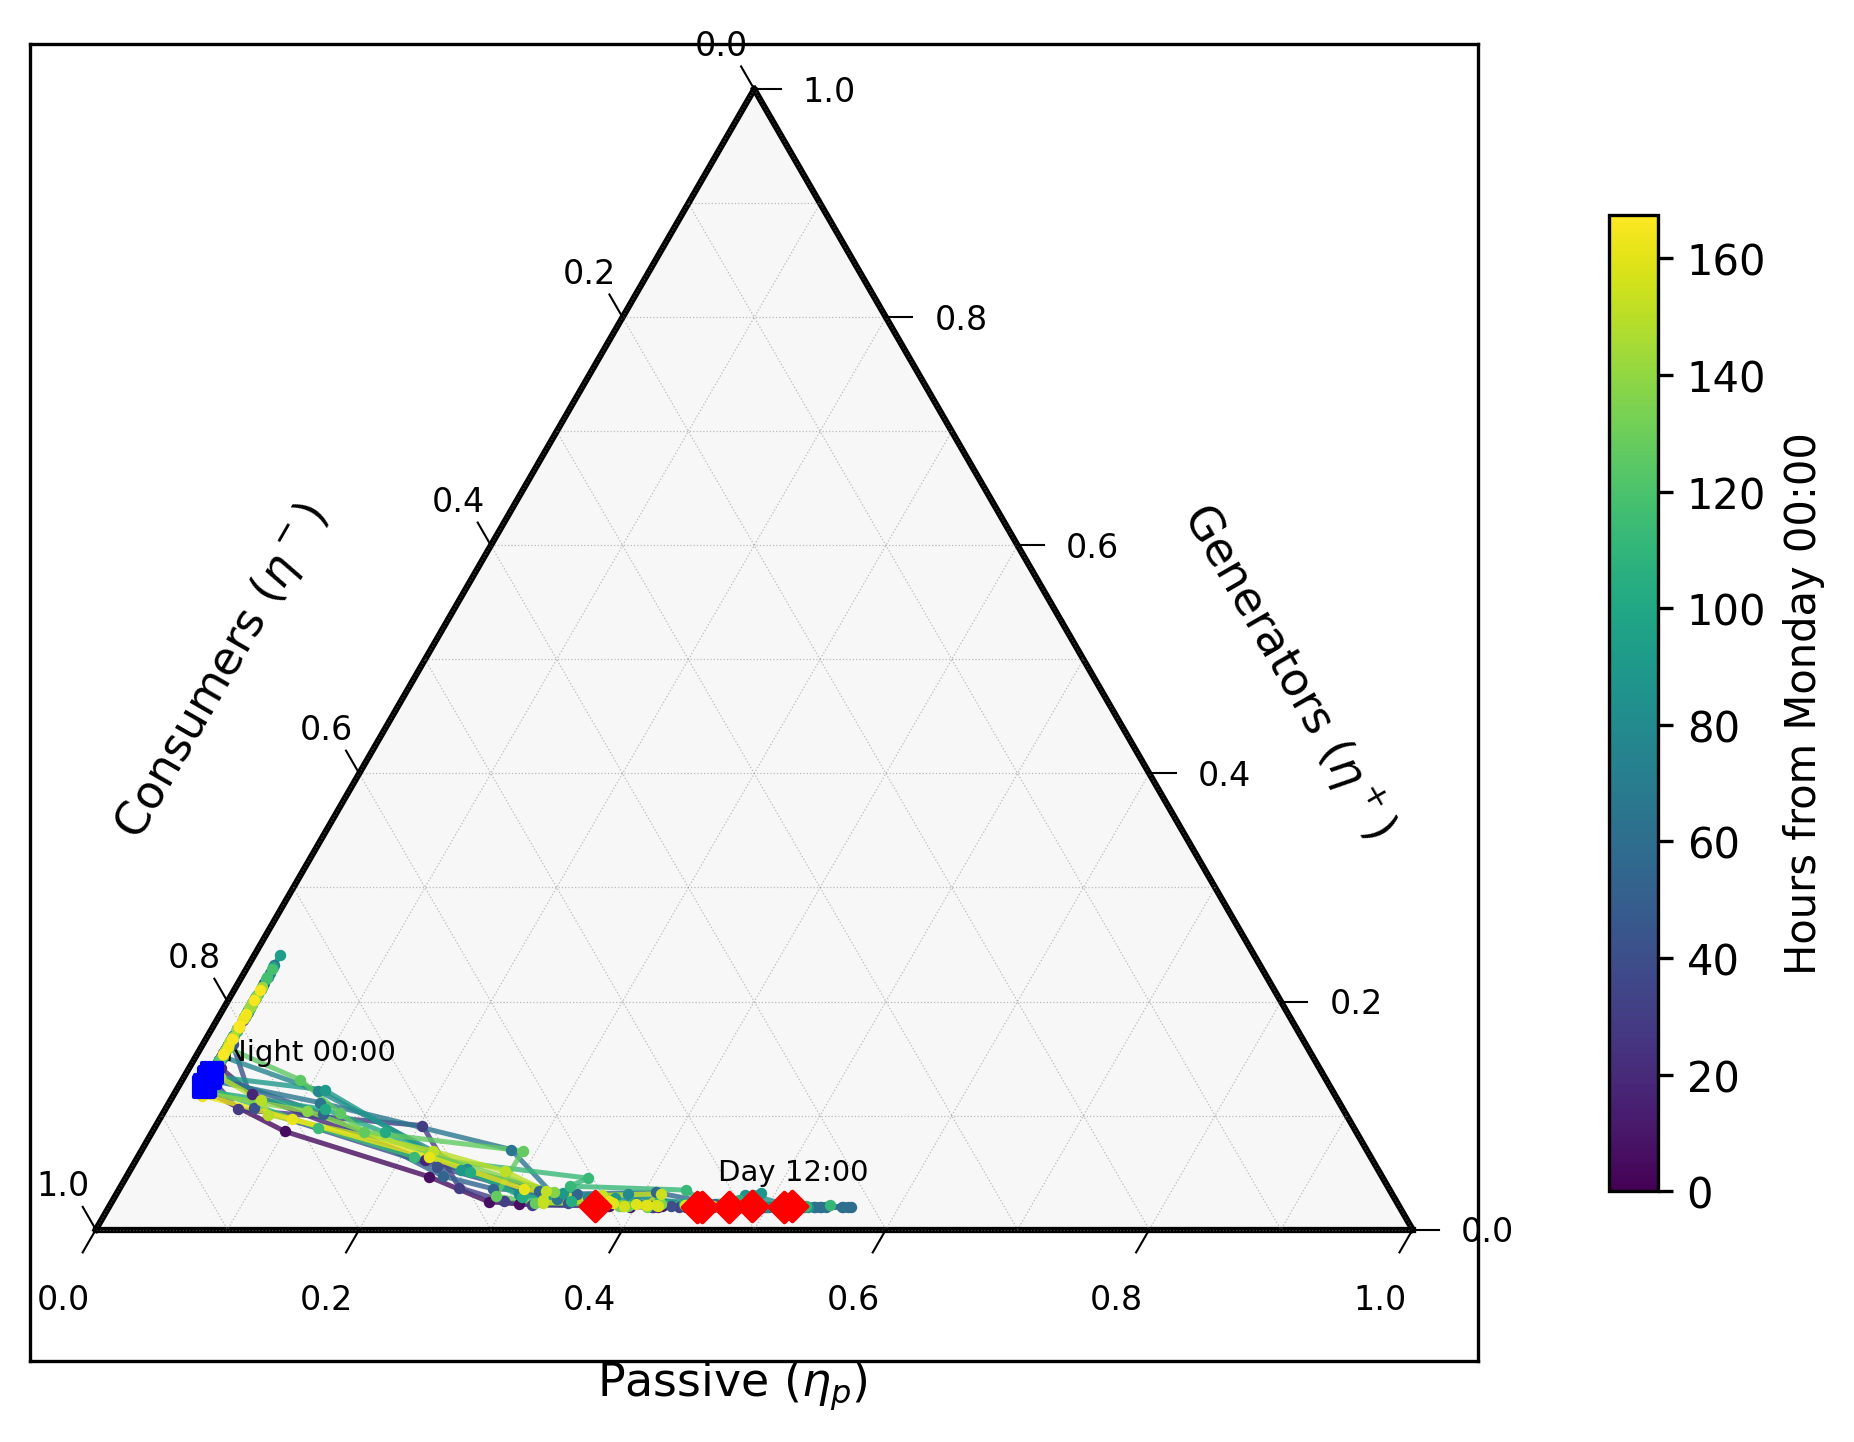
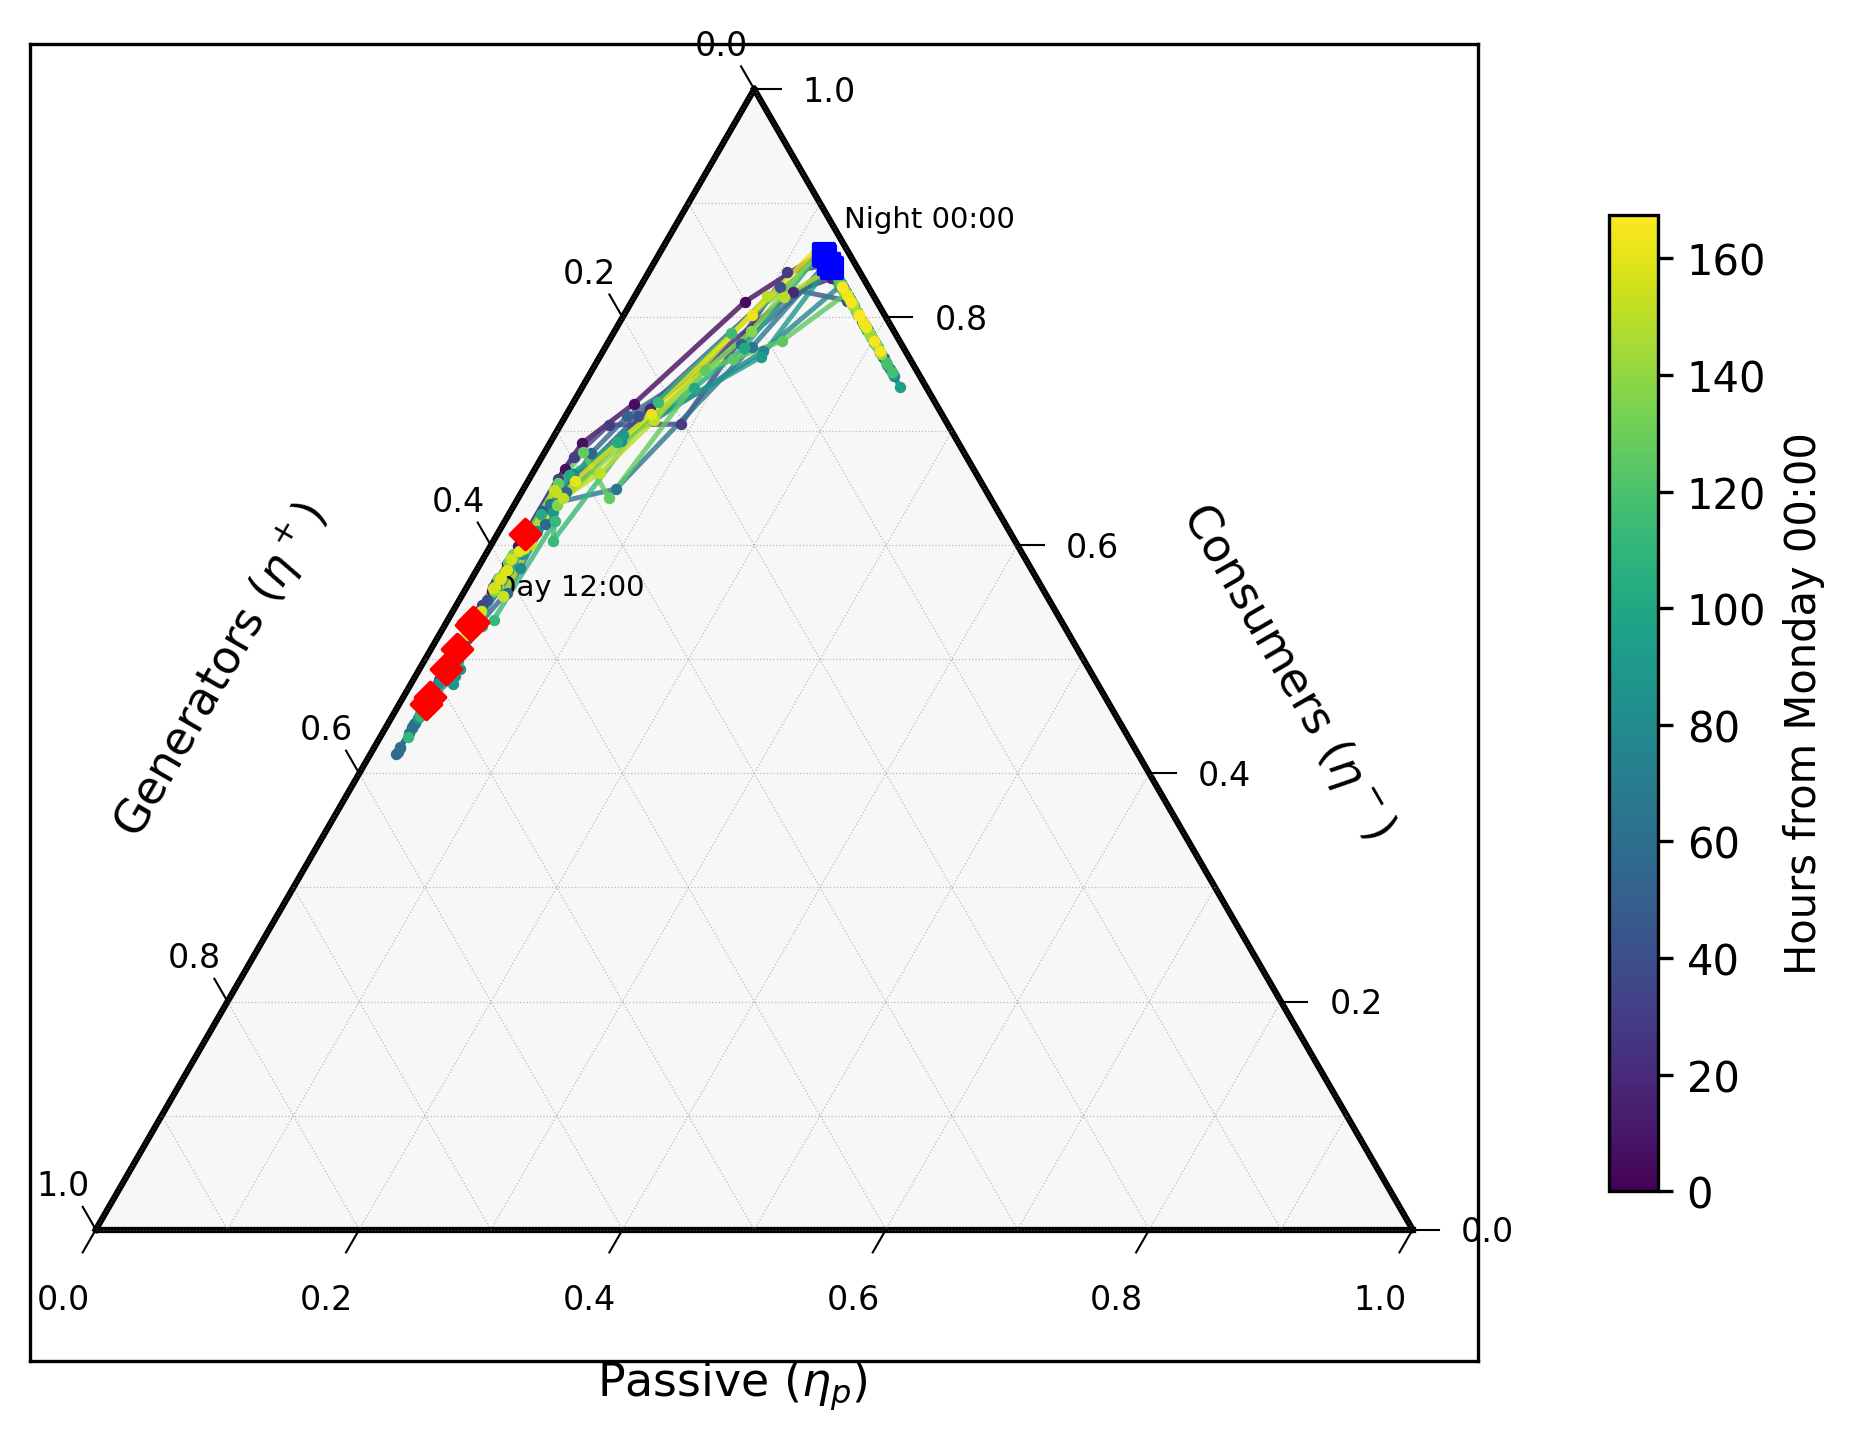
style: update figure colors and improve axis labels for better visualization

diff --git a/sq4_data/plot_sq4.py b/sq4_data/plot_sq4.py
@@ -28,19 +28,18 @@ SCRIPT_DIR = os.path.dirname(os.path.abspath(__file__))
 RESULTS_DIR = os.path.join(SCRIPT_DIR, "results")
 FIGURES_DIR = os.path.join(SCRIPT_DIR, "figures")
 
-# Paul Tol colorblind-safe palette
 STRATEGY_COLORS = {
     "baseline":   "#888888",
-    "random":     "#4477AA",
-    "max_power":  "#228833",
-    "score":      "#EE6677",
-    "pcc_direct": "#AA3377",
+    "random":     "#1f77b4",   # tab blue
+    "max_power":  "#ff7f0e",   # tab orange
+    "score":      "#d62728",   # tab red
+    "pcc_direct": "#2ca02c",   # tab green
 }
 M_COLORS = {
     "m=0_pcc_direct":  "#888888",
-    "m=4_pcc_direct":  "#AA3377",
-    "m=8_pcc_direct":  "#BBBBDD",
-    "m=4_random":      "#4477AA",
+    "m=4_pcc_direct":  "#2ca02c",   # tab green
+    "m=8_pcc_direct":  "#8c564b",   # tab brown
+    "m=4_random":      "#1f77b4",   # tab blue
 }
 
 
@@ -66,11 +65,11 @@ def plot_4a1_kc_vs_q(summary_path: str, out_dir: str):
     fig, ax = plt.subplots()
     ax.errorbar(
         df["q"], df["kc_noon_mean"], yerr=df["kc_noon_std"],
-        fmt="o-", capsize=4, color="#AA3377", label="Noon (12:00)",
+        fmt="o-", capsize=4, color="#ff7f0e", label="Noon (12:00)",
     )
     ax.errorbar(
         df["q"], df["kc_dawn_mean"], yerr=df["kc_dawn_std"],
-        fmt="s--", capsize=4, color="#4477AA", label="Dawn (06:00)",
+        fmt="s--", capsize=4, color="#1f77b4", label="Dawn (06:00)",
     )
     ax.set_xlabel("Rewiring probability $q$")
     ax.set_ylabel(r"$\bar{\kappa}_c / P_{\max}$")
@@ -86,7 +85,7 @@ def plot_4a2_ratio_vs_q(summary_path: str, out_dir: str):
     """Fig 4a2: peak/valley ratio vs q."""
     df = pd.read_csv(summary_path)
     fig, ax = plt.subplots()
-    ax.plot(df["q"], df["peak_valley_ratio"], "o-", color="#EE6677")
+    ax.plot(df["q"], df["peak_valley_ratio"], "o-", color="#d62728")
     ax.set_xlabel("Rewiring probability $q$")
     ax.set_ylabel("Peak / Valley ratio")
     ax.grid(True, alpha=0.3)
@@ -157,11 +156,11 @@ def plot_4b3_kc_vs_m(summary_path: str, out_dir: str):
     fig, ax = plt.subplots()
     ax.errorbar(
         df["m"], df["kc_noon_mean"], yerr=df["kc_noon_std"],
-        fmt="o-", capsize=4, color="#AA3377", label="Noon (12:00)",
+        fmt="o-", capsize=4, color="#ff7f0e", label="Noon (12:00)",
     )
     ax.errorbar(
         df["m"], df["kc_dawn_mean"], yerr=df["kc_dawn_std"],
-        fmt="s--", capsize=4, color="#4477AA", label="Dawn (06:00)",
+        fmt="s--", capsize=4, color="#1f77b4", label="Dawn (06:00)",
     )
     ax.set_xlabel("Number of added edges $m$")
     ax.set_ylabel(r"$\bar{\kappa}_c / P_{\max}$")
@@ -197,12 +196,12 @@ def plot_4b3_combined(results_dir: str, out_dir: str):
     # Analytic lower bound: 20.85 / (4 + m)
     m_cont = np.linspace(0, 20, 200)
     lb = 20.85 / (4 + m_cont)
-    ax.plot(m_cont, lb, "--", color="#EE6677", label=r"Lower bound $20.85/(4+m)$")
-    ax.fill_between(m_cont, 0, lb, color="#EE6677", alpha=0.08, label="Guaranteed unstable")
+    ax.plot(m_cont, lb, "--", color="#d62728", label=r"Lower bound $20.85/(4+m)$")
+    ax.fill_between(m_cont, 0, lb, color="#d62728", alpha=0.08, label="Guaranteed unstable")
 
     # Empirical fit: 25.7 / (4 + m)
     emp = 25.7 / (4 + m_cont)
-    ax.plot(m_cont, emp, "--", color="#4477AA", label=r"Empirical fit $25.7/(4+m)$")
+    ax.plot(m_cont, emp, "--", color="#1f77b4", label=r"Empirical fit $25.7/(4+m)$")
 
     ax.set_xlabel("Number of added edges $m$")
     ax.set_ylabel(r"$\bar{\kappa}_c / P_{\max}$")
@@ -219,7 +218,7 @@ def plot_4b4_ratio_vs_m(summary_path: str, out_dir: str):
     """Fig 4b4: peak/valley ratio vs m."""
     df = pd.read_csv(summary_path)
     fig, ax = plt.subplots()
-    ax.plot(df["m"], df["peak_valley_ratio"], "o-", color="#EE6677")
+    ax.plot(df["m"], df["peak_valley_ratio"], "o-", color="#d62728")
     ax.set_xlabel("Number of added edges $m$")
     ax.set_ylabel("Peak / Valley ratio")
     strategy = df["strategy"].iloc[0] if "strategy" in df.columns else "best"

diff --git a/sq3_data/plot_sq3.py b/sq3_data/plot_sq3.py
@@ -23,12 +23,11 @@ RESULTS_DIR = os.path.join(SCRIPT_DIR, "results")
 FIGURES_DIR = os.path.join(SCRIPT_DIR, "figures")
 os.makedirs(FIGURES_DIR, exist_ok=True)
 
-# Paul Tol colorblind-safe palette
 M_COLORS = {
-    "m=0_pcc_direct":  "#888888",
-    "m=4_pcc_direct":  "#AA3377",
-    "m=8_pcc_direct":  "#BBBBDD",
-    "m=4_random":      "#4477AA",
+    "m=0_pcc_direct":  "#888888",   # gray (baseline)
+    "m=4_pcc_direct":  "#2ca02c",   # tab green
+    "m=8_pcc_direct":  "#8c564b",   # tab brown
+    "m=4_random":      "#1f77b4",   # tab blue
 }
 LABELS = {
     "m=0_pcc_direct": "m=0 (baseline)",
@@ -154,9 +153,9 @@ def plot_sq3_2():
             width = 0.35
 
             ax.bar(x - width/2, pcc_means, width, label="PCC edges",
-                   color="#EE6677", alpha=0.8)
+                   color="#d62728", alpha=0.8)
             ax.bar(x + width/2, nonpcc_means, width, label="Non-PCC edges",
-                   color="#4477AA", alpha=0.8)
+                   color="#1f77b4", alpha=0.8)
 
             ax.set_xticks(x)
             ax.set_xticklabels(configs, rotation=45, ha='right', fontsize=8)
@@ -201,11 +200,11 @@ def plot_sq3_3():
     ax = axes[0]
     df_optd = pd.read_csv(optd_sweep)
     agg = df_optd.groupby("alpha_over_alpha_star")["S"].agg(["mean", "std"]).reset_index()
-    ax.plot(agg["alpha_over_alpha_star"], agg["mean"], '-', color="#228833", linewidth=2,
+    ax.plot(agg["alpha_over_alpha_star"], agg["mean"], '-', color="#2ca02c", linewidth=2,
             label="WS(50,4,0.1) — no PCC")
     ax.fill_between(agg["alpha_over_alpha_star"],
                      agg["mean"] - agg["std"], agg["mean"] + agg["std"],
-                     alpha=0.2, color="#228833")
+                     alpha=0.2, color="#2ca02c")
 
     # Overlay PCC m=0 at noon if available
     if has_pcc:
@@ -213,12 +212,12 @@ def plot_sq3_3():
         df_noon = df_pcc[(df_pcc["timestep"] == "12:00") & (df_pcc["m"] == 0)]
         if not df_noon.empty:
             agg_pcc = df_noon.groupby("alpha_over_alpha_star")["S"].agg(["mean", "std"]).reset_index()
-            ax.plot(agg_pcc["alpha_over_alpha_star"], agg_pcc["mean"], '-', color="#EE6677",
+            ax.plot(agg_pcc["alpha_over_alpha_star"], agg_pcc["mean"], '-', color="#d62728",
                     linewidth=2, label="PCC network m=0 (noon)")
             ax.fill_between(agg_pcc["alpha_over_alpha_star"],
                              agg_pcc["mean"] - agg_pcc["std"],
                              agg_pcc["mean"] + agg_pcc["std"],
-                             alpha=0.2, color="#EE6677")
+                             alpha=0.2, color="#d62728")
 
     ax.axhline(0.5, color='gray', linestyle='--', alpha=0.5)
     ax.set_xlabel(r"$\alpha / \alpha^*$", fontsize=11)
@@ -234,7 +233,7 @@ def plot_sq3_3():
     rhos = df_rho["rho"].dropna().values
 
     if len(rhos) > 0:
-        ax.hist(rhos, bins=20, color="#228833", alpha=0.7, edgecolor="black")
+        ax.hist(rhos, bins=20, color="#2ca02c", alpha=0.7, edgecolor="black")
         ax.axvline(np.mean(rhos), color='red', linestyle='--',
                    label=f"mean={np.mean(rhos):.3f}")
         ax.axvline(np.median(rhos), color='blue', linestyle='--',
@@ -251,7 +250,7 @@ def plot_sq3_3():
     n_total = len(df_rho)
     ax.bar(["Converged", "Not converged"],
            [n_conv, n_total - n_conv],
-           color=["#228833", "#EE6677"], alpha=0.8, edgecolor="black")
+           color=["#2ca02c", "#d62728"], alpha=0.8, edgecolor="black")
     ax.set_ylabel("Count", fontsize=11)
     ax.set_title(f"(c) Bisection Convergence ({100*n_conv/n_total:.0f}%)", fontsize=12)
     ax.grid(True, alpha=0.3, axis='y')

diff --git a/sq2_data/plot_results.py b/sq2_data/plot_results.py
@@ -20,13 +20,12 @@ import ternary
 SCRIPT_DIR = os.path.dirname(os.path.abspath(__file__))
 DPI = 300
 
-# Paul Tol colorblind-safe palette
 STRATEGY_COLORS = {
     "baseline":   "#888888",
-    "random":     "#4477AA",
-    "max_power":  "#228833",
-    "score":      "#EE6677",
-    "pcc_direct": "#AA3377",
+    "random":     "#1f77b4",   # tab blue
+    "max_power":  "#ff7f0e",   # tab orange
+    "score":      "#d62728",   # tab red
+    "pcc_direct": "#2ca02c",   # tab green
 }
 
 
@@ -70,7 +69,7 @@ def plot_trajectory(results_dir: str, output_dir: str, season: str):
 
     # Scale to ternary coordinates (python-ternary uses scale parameter)
     scale = 1.0
-    points = list(zip(eta_plus, eta_minus, eta_p))
+    points = list(zip(eta_minus, eta_p, eta_plus))
 
     fig, tax = ternary.figure(scale=scale)
     fig.set_size_inches(7, 6)
@@ -119,8 +118,8 @@ def plot_trajectory(results_dir: str, output_dir: str, season: str):
                 )
 
     # Labels
-    tax.left_axis_label("Consumers ($\\eta^-$)", fontsize=11, offset=0.16)
-    tax.right_axis_label("Generators ($\\eta^+$)", fontsize=11, offset=0.16)
+    tax.left_axis_label("Generators ($\\eta^+$)", fontsize=11, offset=0.16)
+    tax.right_axis_label("Consumers ($\\eta^-$)", fontsize=11, offset=0.16)
     tax.bottom_axis_label("Passive ($\\eta_p$)", fontsize=11, offset=0.06)
 
     tax.ticks(axis="lbr", linewidth=0.5, multiple=0.2, fontsize=8, offset=0.02,
@@ -165,13 +164,13 @@ def plot_kappa_timeseries(results_dir: str, output_dir: str, season: str):
 
     fig, ax = plt.subplots(figsize=(12, 3.5))
 
-    ax.plot(x, kc_mean, "-", color="#4477AA", linewidth=1.5, label="$\\bar{\\kappa}_c / P_{\\max}$")
+    ax.plot(x, kc_mean, "-", color="#1f77b4", linewidth=1.5, label="$\\bar{\\kappa}_c / P_{\\max}$")
     ax.fill_between(
         x,
         np.maximum(kc_mean - kc_std, 0),
         kc_mean + kc_std,
         alpha=0.25,
-        color="#4477AA",
+        color="#1f77b4",
         label="$\\pm 1$ SD",
     )
 

diff --git a/direction3_nonuniform/plot_results.py b/direction3_nonuniform/plot_results.py
@@ -43,12 +43,11 @@ def plot_2a(input_csv: str, output_png: str):
     ax.plot(x, y_gen, color="#1f77b4", linewidth=2.0, label="2A-gen")
     ax.fill_between(x, y_gen - s_gen, y_gen + s_gen, color="#1f77b4", alpha=0.20)
 
-    ax.plot(x, y_con, color="#d62728", linewidth=2.0, label="2A-con")
-    ax.fill_between(x, y_con - s_con, y_con + s_con, color="#d62728", alpha=0.20)
+    ax.plot(x, y_con, color="#ff7f0e", linewidth=2.0, label="2A-con")
+    ax.fill_between(x, y_con - s_con, y_con + s_con, color="#ff7f0e", alpha=0.20)
 
     ax.set_xlabel("sigma / P_bar")
     ax.set_ylabel("kappa_c / P_max")
-    ax.set_title("Effect of Power Heterogeneity on Critical Coupling")
     ax.grid(alpha=0.25)
     ax.legend(frameon=False)
 
@@ -67,12 +66,11 @@ def plot_2c(input_csv: str, output_png: str):
     s = data["kappa_c_std"][order]
 
     fig, ax = plt.subplots(figsize=(7.0, 4.6), dpi=200)
-    ax.plot(x, y, color="#2ca02c", linewidth=2.0, label="2C")
-    ax.fill_between(x, y - s, y + s, color="#2ca02c", alpha=0.20)
+    ax.plot(x, y, color="#d62728", linewidth=2.0, label="2C")
+    ax.fill_between(x, y - s, y + s, color="#d62728", alpha=0.20)
 
     ax.set_xlabel("r")
     ax.set_ylabel("kappa_c / P_max")
-    ax.set_title("Centralized vs Distributed Generation")
     ax.grid(alpha=0.25)
 
     y_min = float(np.min(y - s))
